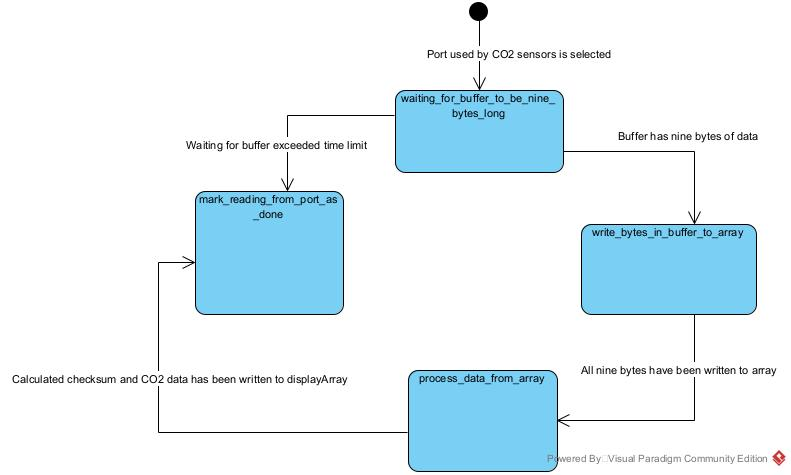
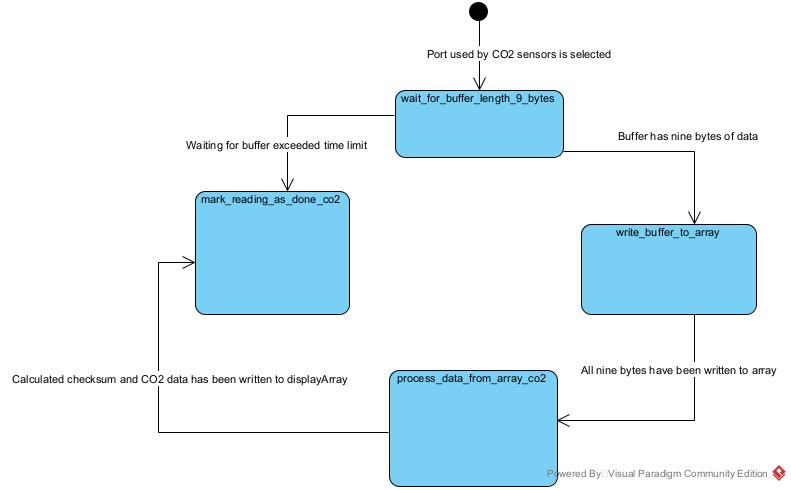
Added the ability to see real time sensor data in serial monitor. Also updated diagrams to reflect the implementation of state machines so that they are more accurate.

diff --git a/README.md b/README.md
@@ -1,25 +1,16 @@
-# 2025 Summer Internship at interlab code
-The files bt_spp_acceptor and turnLedOnFromPhone are files made from me reinstalling ESP-IDF to make sure it works correctly. The files screenDisplay, and pmsArrayWorks are code I wrote first to learn how to read from a sensor and print to the LCD screen before moving on to testSensors which contains that actual code to check all the sensors connected to a multiplexor and print the results obtained from the sensors connected to the multiplexor.
+# AIT interlab internship
+## Test sensor project
+PMS7003 sensor state diagram
+![State diagram of pmSensor() function](images/pmsSensor_function_state_diagram.jpg)
 
-## Sensor Testing Documentation
-The following are diagrams to help understand how the testSensors program works.
+PMS7003 sensor sequence diagram
+![Sequence diagram of pmsSensor()](images/loop_gets_PM_sensor_data_all_outcomes.jpg)
 
-### How it works:
-The pmsSensor() is repeatedly called by the loop() to read the PM sensors. It progresses through each step of reading the sensor by using boolean variables and if statements to guide it. On the other hand, the co2Sensor() is not repeatedly called. It is called only once and returns with connection failed or the actual data. The program goes to a port, gets data, prints it, then moves to the next port. Depending on the port how it gets sensor data is different because those ports are intended for specific types of sensors and so which port it selects affects its approach becase the two sensors work differently.
+MH-Z16 sensor state diagram
+![State diagram of co2Sensor() function](images/co2Sensor_function_state_diagram.jpg)
 
-#### MH-Z16 CO2 sensor state diagram:
-![State diagram of the co2Sensor function.](./images/co2Sensor_function_state_diagram.jpg "co2Sensor state diagram")
+MH-Z16 sensor sequence diagram
+![Sequence diagram of co2Sensor() function](images/loop_gets_CO2_sensor_data_all_outcomes.jpg)
 
-#### PMS7003 sensor state diagram:
-![State diagram of pmsSensor function.](./images/pmsSensor_function_state_diagram.jpg "pms state diagram")
-
-#### Getting PM data sequence diagram:
-![Sequence diagram for getting data from PMS7003](./images/loop_gets_PM_sensor_data.jpg "Sequence diagram of getting data from PM sensor")
-#### PM connection failed sequence diagram
-![Sequence diagram for getting connection failed from PMS7003](./images/loop_timeout_PM_sensor_data.jpg "Sequence diagram of getting connection failed from PM sensor")
-
-#### Getting CO2 data sequence diagram:
-![Sequence diagram for getting data from MH-Z16](./images/loop_gets_CO2_sensor_data.jpg "Sequence diagram of getting data from MH-Z16 sensor")
-
-#### CO2 connection failed sequence diagram:
-![Sequence diagram for getting connection failed from MH-Z16](./images/loop_timeout_CO2_sensor_data.jpg "Sequence diagram of getting connection failed from MH-Z16 sensor")
+### How the testSensors program works
+The program repeatedly uses loop to process each state when getting data from a port used by the PMS7003 sensor. On the other hand, for the MH-Z16 sensor it is straightforward. If it gets data it will store it and process it, else it just marks it as connection failed.
